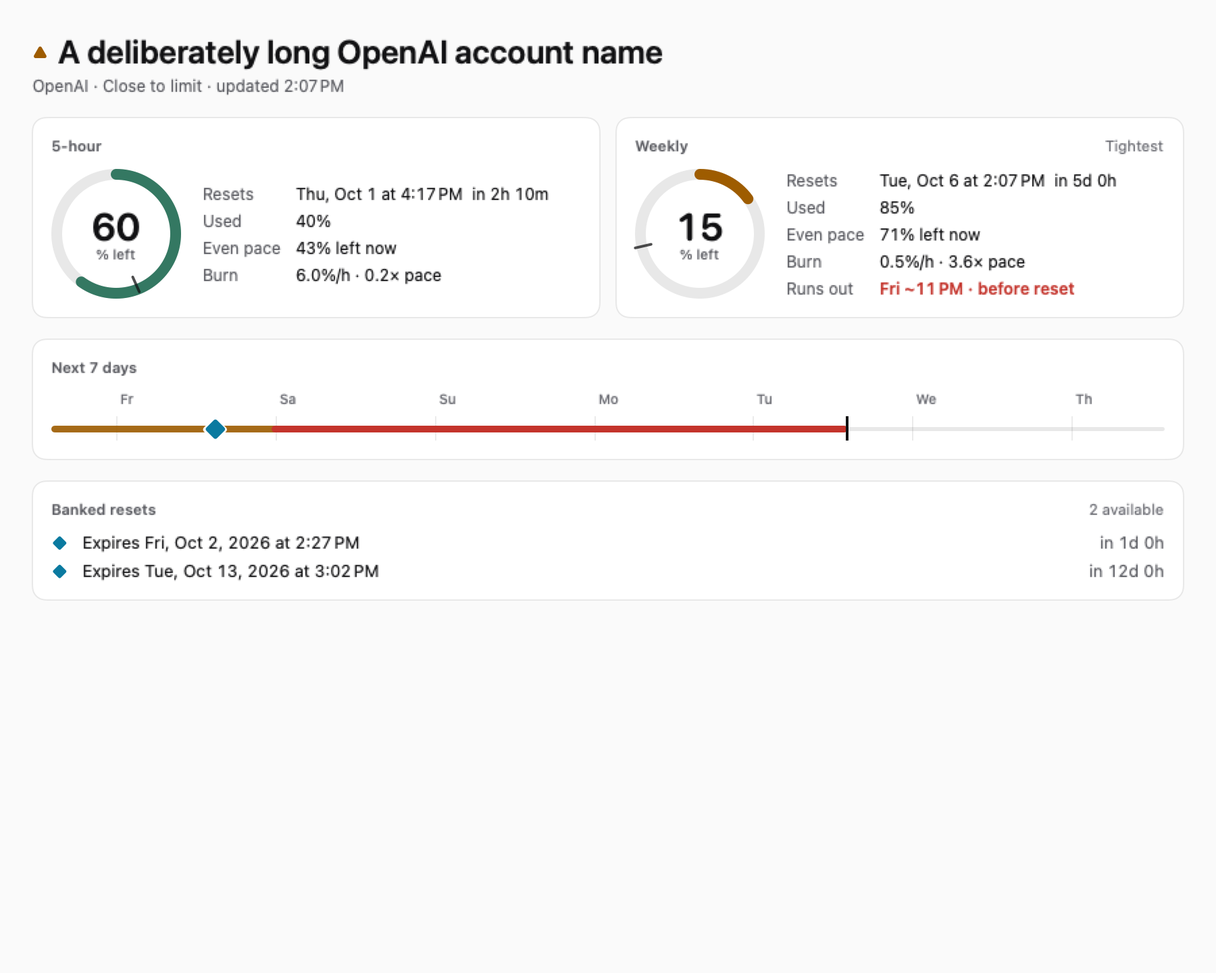
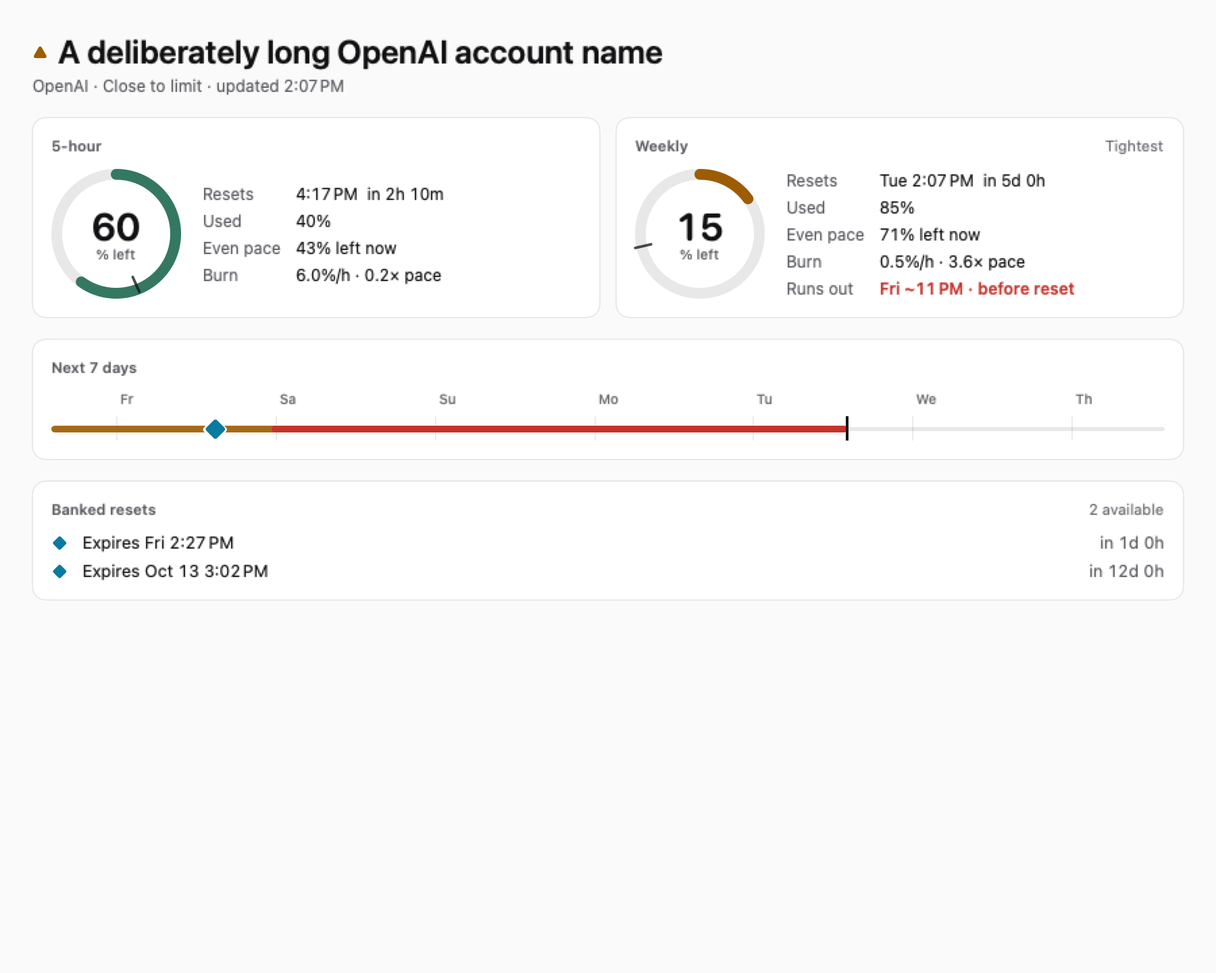
Keep qualifiers, saved state and dates the same on every surface
Assumed capacity keeps its "≈" and "Assumed ·" on Watch, TV, widgets and the
agent display block; the Watch complication names saved values; TV omits pace
without synced burn; a failed first read says "Not updating"; detail pages
use the shared date format. From the second outside review.

Changed region(s): [[0.1244, 0.5312, 0.3111, 0.5938], [0.7467, 0.1562, 0.9022, 0.2188], [0.2489, 0.1875, 0.4667, 0.2188]]

diff --git a/Sources/ContextPanelSettingsUI/AccountDashboardViews.swift b/Sources/ContextPanelSettingsUI/AccountDashboardViews.swift
@@ -22,7 +22,7 @@ public struct AccountDashboardPanel: View {
     }
 
     /// Companions receive no per-account burn yet; they omit pace rather than say "measuring".
-    private var hasBurn: Bool { overview.accounts.contains { $0.windows.contains { $0.burnFractionPerHour != nil } } }
+    private var hasBurn: Bool { AccountOverview.Account.hasBurn(in: overview) }
 
     private var palette: DashboardPalette { DashboardPalette(dark: colorScheme == .dark) }
     private var nextIDs: Set<String> { Set(Provider.allCases.compactMap { overview.useNext(provider: $0)?.id }) }
@@ -206,7 +206,7 @@ public struct AccountDashboardPanel: View {
                         Text(account.metadata.provider.accountDisplayName)
                         if account.state.needsWord {
                             Text("·")
-                            Text(account.state.displayText)
+                            Text(account.stateText)
                         }
                         if let count = account.bankedResets?.availableCount, count > 0 {
                             Text("·")
@@ -235,12 +235,14 @@ public struct AccountDashboardPanel: View {
     private func windowCell(_ account: AccountOverview.Account, window: AccountOverview.Window?) -> some View {
         VStack(alignment: .leading, spacing: 5) {
             HStack(alignment: .firstTextBaseline, spacing: 1) {
-                Text(AccountNumbers.percent(window?.remainingFraction))
+                Text(window.map { AccountNumbers.window($0, sign: false) } ?? AccountTerms.unknown)
                     .font(.system(size: 17, weight: window?.id == account.limitingWindow?.id ? .bold : .medium))
                     .monospacedDigit().foregroundStyle(window.map { palette.textColor(for: $0) } ?? palette.tertiary)
                 Text("%").font(.system(size: 10, weight: .medium)).foregroundStyle(palette.tertiary)
                 Spacer(minLength: 4)
-                Text(window?.naturalResetAt.map { AccountPaceText.when($0, now: now) } ?? "")
+                Text(window.map { w in
+                    (w.duration == 5 * 3_600 || w.duration == 7 * 86_400 ? "" : w.shortLabel + " · ") + (AccountTerms.reset(w, now: now) ?? "")
+                } ?? "")
                     .font(.system(size: 10.5)).monospacedDigit().foregroundStyle(palette.secondary).lineLimit(1)
             }
             if let window { DashboardMeter(window: window, now: now, palette: palette, height: 5) }
@@ -263,7 +265,7 @@ public struct AccountDashboardPanel: View {
             }
             HStack(spacing: 5) {
                 Text(account.metadata.provider.accountDisplayName)
-                if account.state.needsWord { Text("·"); Text(account.state.displayText) }
+                if account.state.needsWord { Text("·"); Text(account.stateText) }
                 if let count = account.bankedResets?.availableCount, count > 0 {
                     Text("·")
                     Image(systemName: AccountGlyphs.bankedSmall).font(.system(size: 10, weight: .bold)).foregroundStyle(palette.banked)
@@ -346,7 +348,7 @@ public struct AccountDashboardDetail: View {
         self.compact = compact
     }
 
-    private var hasBurn: Bool { overview.accounts.contains { $0.windows.contains { $0.burnFractionPerHour != nil } } }
+    private var hasBurn: Bool { AccountOverview.Account.hasBurn(in: overview) }
 
     private var palette: DashboardPalette { DashboardPalette(dark: colorScheme == .dark) }
 
@@ -361,7 +363,7 @@ public struct AccountDashboardDetail: View {
                     }
                     if account.metadata.useLast { DashboardTag(text: "USE LAST", color: palette.tertiary) }
                 }
-                Text("\(account.metadata.provider.accountDisplayName) · \(account.state.displayText)"
+                Text("\(account.metadata.provider.accountDisplayName) · \(account.stateText)"
                      + (account.observedAt.map { " · updated " + AccountPaceText.when($0, now: now) } ?? ""))
                     .font(.system(size: 12)).foregroundStyle(palette.secondary)
             }
@@ -394,16 +396,16 @@ public struct AccountDashboardDetail: View {
                                   track: palette.track, lineWidth: 8, evenPace: window.evenPaceRemaining(now: now),
                                   tick: palette.primary)
                     VStack(spacing: -2) {
-                        Text(AccountNumbers.percent(window.remainingFraction))
+                        Text(AccountNumbers.window(window, sign: false))
                             .font(.system(size: 28, weight: .semibold, design: .rounded)).monospacedDigit()
                         Text(AccountTerms.percentLeft).font(.system(size: 10, weight: .medium)).foregroundStyle(palette.secondary)
                     }
                 }
                 .frame(width: 96, height: 96)
                 Grid(alignment: .leading, horizontalSpacing: 10, verticalSpacing: 5) {
-                    fact("Resets", window.naturalResetAt.map {
-                        ContextPanelDateFormatting.accountReset($0, compact: true) + "  " + AccountPaceText.countdown(to: $0, now: now)
-                    } ?? "Unknown")
+                    fact(AccountTerms.resets, AccountTerms.reset(window, now: now).map {
+                        $0 + "  " + AccountPaceText.countdown(to: window.naturalResetAt ?? now, now: now)
+                    } ?? AccountTerms.unknown)
                     if let used = window.used, let limit = window.limit {
                         fact("Used", window.unit == .percent && limit == 100 ? "\(used)%" : "\(used) of \(limit) \(window.unit.rawValue)")
                     }
@@ -445,7 +447,7 @@ public struct AccountDashboardDetail: View {
                 ForEach(deadlines) { deadline in
                     HStack(spacing: 10) {
                         Image(systemName: AccountGlyphs.bankedExpiry).font(.system(size: 9)).foregroundStyle(palette.banked)
-                        Text("Expires " + ContextPanelDateFormatting.accountReset(deadline.expiresAt)).monospacedDigit()
+                        Text("Expires " + AccountPaceText.when(deadline.expiresAt, now: now)).monospacedDigit()
                         if deadline.state != .available {
                             Text("last seen " + AccountPaceText.when(deadline.observedAt, now: now))
                                 .foregroundStyle(palette.stale)

diff --git a/Sources/ContextPanelTVSupport/TVAccountViews.swift b/Sources/ContextPanelTVSupport/TVAccountViews.swift
@@ -91,11 +91,13 @@ public struct TVAccountTile: View {
     let account: AccountOverview.Account
     let isNext: Bool
     let now: Date
+    let showsPace: Bool
 
-    public init(account: AccountOverview.Account, isNext: Bool, now: Date) {
+    public init(account: AccountOverview.Account, isNext: Bool, now: Date, showsPace: Bool = true) {
         self.account = account
         self.isNext = isNext
         self.now = now
+        self.showsPace = showsPace
     }
 
     public var body: some View {
@@ -112,19 +114,25 @@ public struct TVAccountTile: View {
             }
             .frame(height: 36)
             HStack(alignment: .firstTextBaseline, spacing: 8) {
-                Text(AccountNumbers.percent(account.remainingFraction))
+                Text(AccountNumbers.account(account, sign: false))
                     .font(.system(size: 84, weight: .semibold, design: .rounded)).monospacedDigit()
                     .foregroundStyle(TVTokens.color(AccountTone.forAccount(account).textToken))
                 Text(AccountTerms.percentLeft).font(.system(size: 24)).foregroundStyle(TVTokens.color(.secondary))
                 Spacer()
                 VStack(alignment: .trailing, spacing: 2) {
-                    Text(AccountNumbers.pace(account.paceRatio(now: now))).font(.system(size: 30, weight: .semibold))
-                        .monospacedDigit().foregroundStyle(TVTokens.color(AccountTone.forPace(account.paceRatio(now: now))))
-                    Text(account.earliestRunOut(now: now).map { AccountTerms.runOut($0.date, now: now) }
-                         ?? (account.state.needsWord ? account.state.displayText : AccountTerms.paceWord(account.paceRatio(now: now))))
-                        .font(.system(size: 20))
-                        .foregroundStyle(TVTokens.color(account.earliestRunOut(now: now) == nil ? .secondary : .critical))
+                    if showsPace {
+                        Text(AccountNumbers.pace(account.paceRatio(now: now))).font(.system(size: 30, weight: .semibold))
+                            .monospacedDigit().foregroundStyle(TVTokens.color(AccountTone.forPace(account.paceRatio(now: now))))
+                    }
+                    if let runOut = account.earliestRunOut(now: now) {
+                        Text(AccountTerms.runOut(runOut.date, now: now)).foregroundStyle(TVTokens.color(.critical))
+                    } else if account.state.needsWord {
+                        Text(account.stateText).foregroundStyle(TVTokens.color(account.state.colorToken))
+                    } else if showsPace {
+                        Text(AccountTerms.paceWord(account.paceRatio(now: now))).foregroundStyle(TVTokens.color(.secondary))
+                    }
                 }
+                .font(.system(size: 20))
             }
             .frame(height: 100)
             HStack(spacing: 24) {
@@ -175,7 +183,8 @@ public struct TVAccountBoard: View {
             TVAccountAnswers(overview: overview, now: now)
             LazyVGrid(columns: Array(repeating: GridItem(.flexible(), spacing: 28), count: 3), spacing: 28) {
                 ForEach(overview.accounts) { account in
-                    TVAccountTile(account: account, isNext: nextIDs.contains(account.id), now: now)
+                    TVAccountTile(account: account, isNext: nextIDs.contains(account.id), now: now,
+                                  showsPace: AccountOverview.Account.hasBurn(in: overview))
                 }
             }
         }
@@ -216,10 +225,10 @@ struct TVMeter: View {
         VStack(alignment: .leading, spacing: 8) {
             HStack(alignment: .firstTextBaseline, spacing: 8) {
                 Text(window.shortLabel).foregroundStyle(TVTokens.color(.secondary))
-                Text(AccountNumbers.percentWithSign(window.remainingFraction)).fontWeight(.semibold)
+                Text(AccountNumbers.window(window)).fontWeight(.semibold)
                     .foregroundStyle(TVTokens.color(AccountTone.forRemaining(window.remainingFraction).textToken))
                 Spacer(minLength: 4)
-                Text(window.naturalResetAt.map { AccountPaceText.when($0, now: now) } ?? "")
+                Text(AccountTerms.reset(window, now: now) ?? "")
                     .foregroundStyle(TVTokens.color(.secondary)).lineLimit(1)
             }
             .font(.system(size: 20)).monospacedDigit()

diff --git a/Sources/ContextPanelWatchSupport/WatchAccountViews.swift b/Sources/ContextPanelWatchSupport/WatchAccountViews.swift
@@ -25,7 +25,7 @@ public struct WatchAccountRow: View {
                     Image(systemName: AccountGlyphs.useNext).font(.system(size: 10)).foregroundStyle(WatchTokens.color(.next))
                 }
                 Spacer(minLength: 2)
-                Text(AccountNumbers.percentWithSign(account.remainingFraction))
+                Text(AccountNumbers.account(account))
                     .font(.system(size: 17, weight: .semibold, design: .rounded)).monospacedDigit()
                     .foregroundStyle(WatchTokens.color(AccountTone.forAccount(account).textToken))
             }
@@ -38,10 +38,9 @@ public struct WatchAccountRow: View {
                 if let runOut = account.earliestRunOut(now: now) {
                     Text(AccountTerms.runOut(runOut.date, now: now)).foregroundStyle(WatchTokens.color(.critical))
                 } else if account.state.needsWord {
-                    Text(account.state.displayText).foregroundStyle(WatchTokens.color(account.state.colorToken))
-                } else if let reset = account.limitingWindow?.naturalResetAt {
-                    Text(AccountTerms.resets + " " + AccountPaceText.when(reset, now: now))
-                        .foregroundStyle(WatchTokens.color(.secondary))
+                    Text(savedText(account)).foregroundStyle(WatchTokens.color(account.state.colorToken))
+                } else if let window = account.limitingWindow, let reset = AccountTerms.reset(window, now: now) {
+                    Text(AccountTerms.resets + " " + reset).foregroundStyle(WatchTokens.color(.secondary))
                 }
             }
             .font(.system(size: 12)).monospacedDigit().lineLimit(1)
@@ -94,7 +93,7 @@ public struct WatchAccountRectangularFace: View {
                     Image(systemName: account.state.glyphName).font(.system(size: 8, weight: .bold))
                     Text(account.metadata.label).font(.system(size: 13, weight: .semibold)).lineLimit(1)
                     Spacer(minLength: 2)
-                    Text(AccountNumbers.percentWithSign(account.remainingFraction))
+                    Text(AccountNumbers.account(account))
                         .font(.system(size: 15, weight: .semibold, design: .rounded)).monospacedDigit()
                 }
                 HStack(spacing: 4) {
@@ -113,8 +112,9 @@ public struct WatchAccountRectangularFace: View {
 
     private func footer(_ account: AccountOverview.Account) -> String {
         if let runOut = account.earliestRunOut(now: now) { return AccountTerms.runOut(runOut.date, now: now) }
+        if account.state.needsWord { return savedText(account) }
         if let deadline = overview.nextDeadline { return "◆ " + AccountPaceText.when(deadline.expiresAt, now: now) }
-        return account.limitingWindow?.naturalResetAt.map { AccountTerms.resets + " " + AccountPaceText.when($0, now: now) } ?? ""
+        return account.limitingWindow.flatMap { AccountTerms.reset($0, now: now) }.map { AccountTerms.resets + " " + $0 } ?? ""
     }
 }
 
@@ -152,7 +152,7 @@ struct WatchMeter: View {
             if showsLabel {
                 HStack(spacing: 2) {
                     Text(window.shortLabel).foregroundStyle(WatchTokens.color(.secondary))
-                    Text(AccountNumbers.percent(window.remainingFraction))
+                    Text(AccountNumbers.window(window, sign: false))
                         .foregroundStyle(WatchTokens.color(AccountTone.forRemaining(window.remainingFraction).textToken))
                 }
                 .font(.system(size: 10, weight: .medium)).monospacedDigit()
@@ -174,6 +174,14 @@ struct WatchMeter: View {
         .frame(maxWidth: .infinity)
         .accessibilityHidden(true)
     }
+}
+
+/// "Saved 6:04 PM" for saved values, otherwise the state word.
+func savedText(_ account: AccountOverview.Account) -> String {
+    guard [.stale, .unavailable].contains(account.state), !account.windows.isEmpty, let observed = account.observedAt else {
+        return account.stateText
+    }
+    return account.stateText + " " + AccountPaceText.when(observed, now: Date())
 }
 
 /// The watch is always dark.

diff --git a/Sources/ContextPanelTV/ContextPanelTVApp.swift b/Sources/ContextPanelTV/ContextPanelTVApp.swift
@@ -259,7 +259,8 @@ struct TVAccountOverviewContent: View {
                 let nextIDs = Set(Provider.allCases.compactMap { overview.useNext(provider: $0)?.id })
                 LazyVGrid(columns: Array(repeating: GridItem(.flexible(), spacing: 28), count: 3), spacing: 28) {
                     ForEach(overview.accounts) { account in
-                        TVAccountOverviewCard(account: account, isNext: nextIDs.contains(account.id), now: now) {
+                        TVAccountOverviewCard(account: account, isNext: nextIDs.contains(account.id), now: now,
+                                              showsPace: AccountOverview.Account.hasBurn(in: overview)) {
                             openAccount(account.id)
                         }
                     }
@@ -284,12 +285,13 @@ private struct TVAccountOverviewCard: View {
     let account: AccountOverview.Account
     let isNext: Bool
     let now: Date
+    let showsPace: Bool
     let open: () -> Void
     @FocusState private var isFocused: Bool
     var body: some View {
         // Focus changes only the outline, so percentages never move.
         Button(action: open) {
-            TVAccountTile(account: account, isNext: isNext, now: now)
+            TVAccountTile(account: account, isNext: isNext, now: now, showsPace: showsPace)
                 .overlay(RoundedRectangle(cornerRadius: 20).stroke(isFocused ? Color.white : Color.white.opacity(0.16),
                                                                   lineWidth: isFocused ? 4 : 1))
         }.buttonStyle(.plain).focusEffectDisabled().focused($isFocused)
@@ -308,8 +310,8 @@ private struct TVAccountDetailContent: View {
                     ForEach(account.windows) { window in
                         VStack(alignment: .leading, spacing: 12) {
                             Text(window.label).font(.headline)
-                            Text((window.assumption == nil ? "" : "≈ ") + AccountNumbers.percentWithSign(window.remainingFraction) + " " + AccountTerms.left).font(.title)
-                            Text(window.naturalResetAt.map { (window.assumption == nil ? "Reset " : "Assumed after reset ") + ContextPanelDateFormatting.accountReset($0) } ?? "Reset unknown")
+                            Text(AccountNumbers.window(window) + " " + AccountTerms.left).font(.title)
+                            Text(AccountTerms.reset(window, now: Date()).map { AccountTerms.resets + " " + $0 } ?? AccountTerms.resets + " " + AccountTerms.unknown)
                             if let date = window.observedAt { Text("Observed " + ContextPanelDateFormatting.accountReset(date)).foregroundStyle(.secondary) }
                         }.padding(24).frame(maxWidth: .infinity, alignment: .leading)
                             .background(.white.opacity(0.06), in: RoundedRectangle(cornerRadius: 18))
@@ -320,7 +322,7 @@ private struct TVAccountDetailContent: View {
                 ForEach(overview.deadlines.filter { accountID == nil || $0.accountID == accountID }) { deadline in
                     VStack(alignment: .leading, spacing: 8) {
                         Text(deadline.label + " · " + deadline.provider.accountDisplayName).font(.headline)
-                        Text("Expires " + ContextPanelDateFormatting.accountReset(deadline.expiresAt))
+                        Text("Expires " + AccountPaceText.when(deadline.expiresAt, now: Date()))
                         if deadline.state != .available { Text("Last seen " + ContextPanelDateFormatting.accountReset(deadline.observedAt)).foregroundStyle(.secondary) }
                     }
                 }

diff --git a/Sources/ContextPanelCore/AccountPresentation.swift b/Sources/ContextPanelCore/AccountPresentation.swift
@@ -38,6 +38,11 @@ public enum AccountTerms {
         "\(count) \(banked)" + (current ? "" : ", \(lastSeen)")
     }
 
+    /// A window's reset, "Assumed" when the scheduled reset passed without a new reading.
+    public static func reset(_ window: AccountOverview.Window, now: Date) -> String? {
+        window.naturalResetAt.map { (window.assumption == nil ? "" : "Assumed · ") + AccountPaceText.when($0, now: now) }
+    }
+
     /// Short window column name.
     public static func windowShortName(_ window: AccountOverview.Window) -> String { window.shortLabel }
 
@@ -62,6 +67,19 @@ public enum AccountNumbers {
     }
 
     public static func pace(_ ratio: Double?) -> String { AccountPaceText.ratio(ratio) }
+
+    /// A window's percent left, keeping "≈" when capacity is assumed after a scheduled reset.
+    public static func window(_ window: AccountOverview.Window, sign: Bool = true) -> String {
+        guard window.remainingFraction != nil else { return AccountTerms.unknown }
+        return (window.assumption == nil ? "" : "≈ ") + (sign ? percentWithSign(window.remainingFraction) : percent(window.remainingFraction))
+    }
+
+    /// An account's tightest percent left, with the same qualifier.
+    public static func account(_ account: AccountOverview.Account, sign: Bool = true) -> String {
+        guard account.remainingFraction != nil else { return AccountTerms.unknown }
+        let approximate = account.windows.contains { $0.assumption != nil } ? "≈ " : ""
+        return approximate + (sign ? percentWithSign(account.remainingFraction) : percent(account.remainingFraction))
+    }
 }
 
 /// How much headroom a window or account has. Bars, rings and numbers take their colour from this.
@@ -133,6 +151,18 @@ public enum AccountColorToken: String, CaseIterable, Sendable {
         case .track: dark ? 0.13 : 0.09
         default: 1
         }
+    }
+}
+
+public extension AccountOverview.Account {
+    /// The state word for this account: "Not updating" when a read failed and nothing was ever saved.
+    var stateText: String {
+        state == .unavailable && windows.isEmpty ? AccountTerms.notUpdating : state.displayText
+    }
+
+    /// Pace exists only where some account has observed burn; companions get none from the payload today.
+    static func hasBurn(in overview: AccountOverview) -> Bool {
+        overview.accounts.contains { $0.windows.contains { $0.burnFractionPerHour != nil } }
     }
 }
 

diff --git a/Sources/ContextPanelCore/AgentAccountSnapshot.swift b/Sources/ContextPanelCore/AgentAccountSnapshot.swift
@@ -100,10 +100,10 @@ public struct AgentAccountSnapshot: Encodable, Sendable {
 
         public init(account: AccountOverview.Account, isNext: Bool, now: Date) {
             provider = account.metadata.provider.accountDisplayName
-            state = account.state.displayText
+            state = account.stateText
             percentLeft = account.remainingText
             tightestWindow = account.limitingWindow?.label
-            resets = account.limitingWindow?.naturalResetAt.map { AccountPaceText.when($0, now: now) }
+            resets = account.limitingWindow.flatMap { AccountTerms.reset($0, now: now) }
             let ratio = account.paceRatio(now: now)
             pace = AccountNumbers.pace(ratio)
             paceWord = AccountTerms.paceWord(ratio)
@@ -112,8 +112,8 @@ public struct AgentAccountSnapshot: Encodable, Sendable {
                 ? AccountTerms.bankedCount($0.availableCount, current: account.bankedState == .available) : nil }
             useNext = isNext
             windows = account.orderedWindows.map { window in
-                WindowDisplay(id: window.id, name: window.shortLabel, percentLeft: AccountNumbers.percentWithSign(window.remainingFraction),
-                    resets: window.naturalResetAt.map { AccountPaceText.when($0, now: now) },
+                WindowDisplay(id: window.id, name: window.shortLabel, percentLeft: AccountNumbers.window(window),
+                    resets: AccountTerms.reset(window, now: now),
                     evenPacePercentLeft: window.evenPaceRemaining(now: now).map(AccountNumbers.percentWithSign))
             }
         }

diff --git a/Sources/ContextPanelWidgetUI/AccountGlanceWidget.swift b/Sources/ContextPanelWidgetUI/AccountGlanceWidget.swift
@@ -188,7 +188,7 @@ struct AccountGlanceWidget: View {
 
     private func windowCell(_ account: AccountOverview.Account, window: AccountOverview.Window?, width: CGFloat) -> some View {
         HStack(spacing: 4) {
-            Text(AccountNumbers.percent(window?.remainingFraction))
+            Text(window.map { AccountNumbers.window($0, sign: false) } ?? AccountTerms.unknown)
                 .font(.system(size: 10, weight: window?.id == account.limitingWindow?.id ? .bold : .regular).monospacedDigit())
                 .foregroundStyle(window.map { palette.textColor(for: $0) } ?? palette.tertiary)
                 .frame(width: 20, alignment: .trailing)
@@ -296,7 +296,7 @@ struct AccountGlanceWidget: View {
 
     private func largeWindowCell(_ account: AccountOverview.Account, window: AccountOverview.Window?) -> some View {
         HStack(spacing: 4) {
-            Text(AccountNumbers.percent(window?.remainingFraction))
+            Text(window.map { AccountNumbers.window($0, sign: false) } ?? AccountTerms.unknown)
                 .font(.system(size: 11, weight: window?.id == account.limitingWindow?.id ? .bold : .medium).monospacedDigit())
                 .foregroundStyle(window.map { palette.textColor(for: $0) } ?? palette.tertiary)
                 .frame(width: 22, alignment: .trailing)

diff --git a/Tests/ContextPanelCoreTests/AgentAccountSnapshotTests.swift b/Tests/ContextPanelCoreTests/AgentAccountSnapshotTests.swift
@@ -231,7 +231,7 @@ func agentSnapshotDoesNotOfferBurnForOldOrFutureObservations(offset: TimeInterva
     for account in overview.accounts {
         let display = try #require(export.accounts.first { $0.id == account.id }?.display)
         #expect(display.percentLeft == account.remainingText)
-        #expect(display.state == account.state.displayText)
+        #expect(display.state == account.stateText)
         #expect(display.pace == AccountNumbers.pace(account.paceRatio(now: agentNow)))
         #expect(display.runOut == account.earliestRunOut(now: agentNow).map { AccountTerms.runOut($0.date, now: agentNow) })
     }

diff --git a/docs/evidence/722-opus/README.md b/docs/evidence/722-opus/README.md
@@ -109,6 +109,21 @@ show a `+N` overflow count. Not changed: 8–9 pt secondary text in the medium
 and large widgets (the density trade-off is the point of this comparison), and
 the row mark versus bar colour difference (explained above).
 
+A second read-only review by OpenAI gpt-6.1-sol checked consistency across surfaces
+after the extension. It found seven gaps. Six were fixed:
+
+- The "≈" and "Assumed ·" qualifiers now reach Watch, TV, widgets and the agent
+  `display` block (`AccountNumbers.window/account`, `AccountTerms.reset`).
+- The Watch complication says "Saved 6:04 PM" for saved values.
+- TV omits pace when no account has synced burn.
+- A non-weekly long window shows its own label in the Mac table.
+- A failed first read says "Not updating" (`Account.stateText`), not "Saved".
+- Detail pages use the shared date format.
+
+Left open: Top Shelf still tints a headline by provider and draws its status colours with
+its own UIKit values. It is a follow-up on #722, because Top Shelf draws through
+CoreGraphics rather than SwiftUI.
+
 ## Data
 
 No new provider reads. Pace uses the per-account burn the app already
